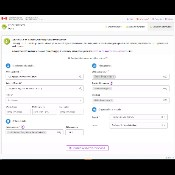
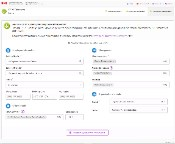
style: add visible image alts; spacing

diff --git a/index.html b/index.html
@@ -15,6 +15,30 @@
             display: inline-block;
             cursor: pointer;
         }
+        
+        .new {
+            display: inline-block;
+            position: relative;
+        }
+        
+        .new img {
+            display: block;
+        }
+        
+        .new::after {
+            content: attr(data-alt);
+            position: absolute;
+            bottom: 0;
+            left: 0;
+            height: 2.5em;
+            width: 100%;
+            background: rgba(0, 209, 178, 0.85);
+            z-index: 2;
+            color: black;
+            text-align: center;
+            line-height: 2.5em;
+            font-size: 0.75rem;
+        }
     </style>
 </head>
 
@@ -22,20 +46,20 @@
     <div class="container mt-5">
         <div class="has-text-centered mb-3">
             <div class="tag is-primary has-text-centered is-large">
-                <div class="icon-text">
+                <h1 class="icon-text">
                     <span class="icon is-white">
                         <i class="fas fa-tachometer-alt"></i>
                     </span>
                     <span>Recent projects</span>
-                </div>
+                </h1>
             </div>
         </div>
         <div class="tile is-vertical is-ancestor has-text-centered">
             <div class="tile is-parent">
                 <div class="tile is-child notification is-dark py-6">
-                    <p class="title">PSPC Directory</p>
+                    <h2 class="title">PSPC Directory</h2>
                     <p class="subtitle is-6">This app centralizes employee information and reporting structure across Teams, Outlook and any other app in the department.</p>
-                    <div class="has-text-centered">
+                    <div class="has-text-centered mt-6">
                         <div id="lightgallery">
                             <a href="images/PSPCDirectoryEmployeeDetails.png">
                                 <img src="images/PSPCDirectoryEmployeeDetails_tn.jpg" alt="Employee details" />
@@ -56,31 +80,30 @@
             <div class="tile">
                 <div class="tile is-7 is-parent">
                     <div class="tile is-child notification is-warning is-child py-6">
-
-                        <p class="title">Ridings app prototype</p>
+                        <h2 class="title">Ridings app prototype</h2>
                         <p class="subtitle is-6">This app would allow a user to compare some statistics between various ridings across canada.</p>
-                        <div class="has-text-centered">
+                        <div class="has-text-centered mt-6">
                             <!-- Hidden video div -->
                             <div style="display:none;" id="video1">
                                 <video class="lg-video-object lg-html5" controls preload="none">
-                            <source src="videos/RidingsMobile.mp4" type="video/mp4">
-                            Your browser does not support HTML5 video.
-                        </video>
+                                    <source src="videos/RidingsMobile.mp4" type="video/mp4">
+                                    Your browser does not support HTML5 video.
+                                </video>
                             </div>
                             <div style="display:none;" id="video2">
                                 <video class="lg-video-object lg-html5" controls preload="none">
-                            <source src="videos/RidingsDesktop.mp4" type="video/mp4">
-                            Your browser does not support HTML5 video.
-                        </video>
+                                    <source src="videos/RidingsDesktop.mp4" type="video/mp4">
+                                    Your browser does not support HTML5 video.
+                                </video>
                             </div>
 
                             <!-- data-src should not be provided when you use html5 videos -->
                             <ul id="html5-videos">
                                 <li data-poster="video-poster1.jpg" data-html="#video1">
-                                    <img src="images/RidingsAppMobile_tn.jpg" alt="Ridings app mobile" />
+                                    <img src="images/RidingsAppMobile_tn.jpg" alt="Mobile" />
                                 </li>
                                 <li data-poster="video-poster2.jpg" data-html="#video2">
-                                    <img src="images/RidingsAppDesktop_tn.jpg" alt="Ridings app desktop" />
+                                    <img src="images/RidingsAppDesktop_tn.jpg" alt="Desktop" />
                                 </li>
                             </ul>
                         </div>
@@ -88,18 +111,17 @@
                 </div>
                 <div class="tile is-5 is-parent">
                     <div class="tile is-child notification is-info py-6">
-                        <p class="title">StatCannabis</p>
+                        <h2 class="title">StatCannabis</h2>
                         <p class="subtitle is-6">This app enables crowdsourcing of cannabis prices across the country.</p>
-                        <div class="has-text-centered">
+                        <div class="has-text-centered mt-6">
                             <div id="lightgallery2">
-                                <a href="images/StatCannabisDesktop.png">
-                                    <img src="images/StatCannabisDesktop_tn.jpg" />
-                                </a>
                                 <a href="images/StatCannabisMobile.png">
-                                    <img src="images/StatCannabisMobile_tn.jpg" />
+                                    <img src="images/StatCannabisMobile_tn.jpg" alt="Mobile" />
+                                </a>
+                                <a href="images/StatCannabisDesktop.png">
+                                    <img src="images/StatCannabisDesktop_tn.jpg" alt="Desktop" />
                                 </a>
                             </div>
-
                             <a href="https://surveys-enquetes.statcan.gc.ca/cannabis/" class="button is-dark mt-3">Visit site</a>
                         </div>
                     </div>
@@ -116,6 +138,14 @@
     <script type="text/javascript">
         $("#lightgallery, #lightgallery2, #lightgallery3, #html5-videos").lightGallery({
             thumbnail: true
+        });
+
+        $('img').each(function() {
+            var data = $(this).attr('alt');
+            $(this)
+                .wrap("<div class='new is-size-6'></div>")
+                .parent('.new')
+                .attr('data-alt', data);
         });
     </script>
 </body>
